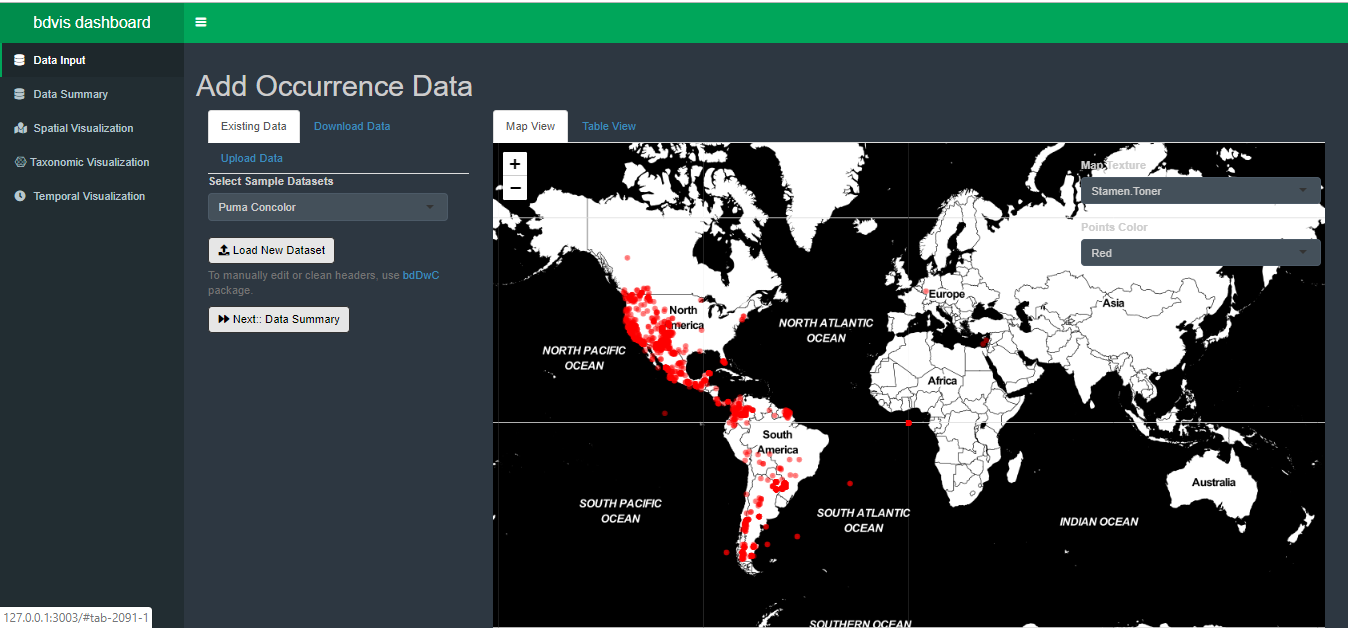
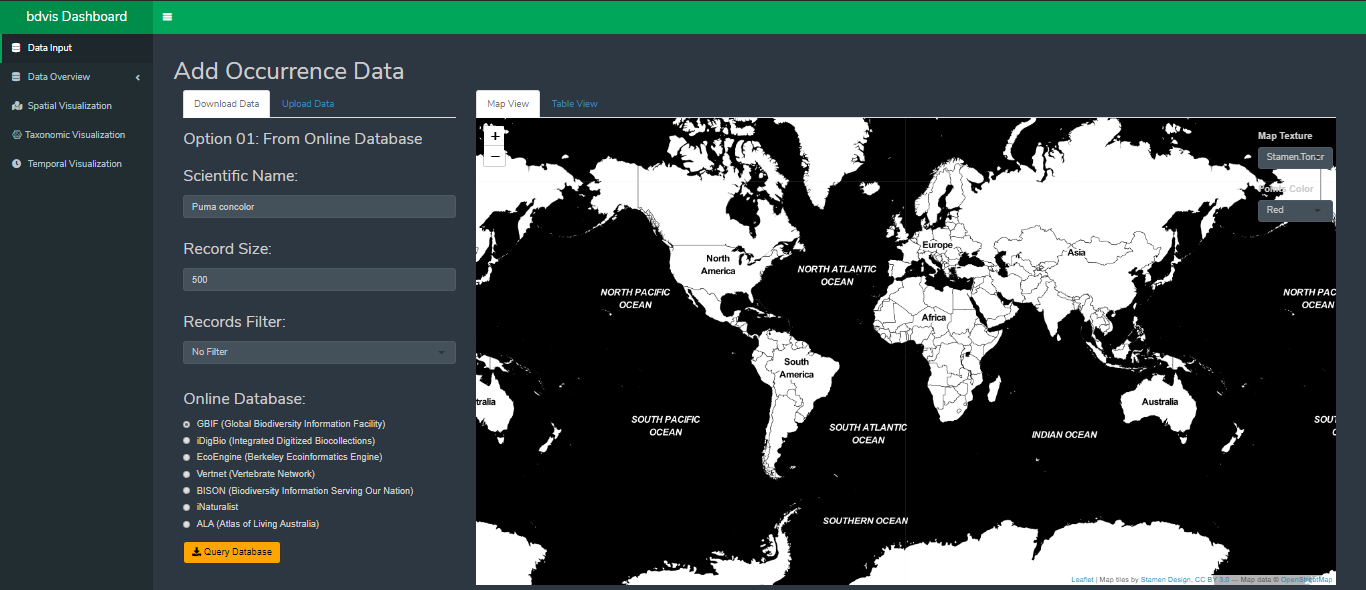
edit readme.md

diff --git a/README.md b/README.md
@@ -45,22 +45,21 @@ dashboard.demo::run_app()
 
 ### DataInput Tab
 
-DataInput tab is dedicated for dataset selection. User can continue with
-existing datasets or he can download a new dataset by clicking on
-“Download Data” tab on dashboard. User can also upload their own
-dataset.
+DataInput tab is dedicated for dataset selection. Fill required fields and click on query Database to download records. User can also upload their own dataset.
 
 ![DataInput Tab](inst/app/www/img/overview.PNG)
 
 ### DataSummart Tab
 
 DataSummary tab is made to give an overview of your dataset before
-visualization. Missing Data in dataset can create a huge impact on
-plots. Note that more the % of missing value, less you can trust the
-result. This tab helps you to understand that how much you can trust the
-visualizations.
+visualization. User can click on each tab to get summary of related fields.
 
 ![DataSummary](inst/app/www/img/summary.PNG)
+
+### Missing Data Tab
+This tab helps user to get % of missing records. Each tab contains related columns.
+
+![Missing Data](inst/app/www/img/missing.PNG)
 
 ### Spatial Tab
 
@@ -70,23 +69,19 @@ country, click on bar of that country. After that Aaa other plots will
 show data collected from that country only. Note: Double click at black
 area of bar chart to reset all graphs.
 
-![Spatial](inst/app/www/img/spatial.PNG)
+![Spatial](inst/app/www/img/spatial.gif)
 
 ### Taxonomic Tab
 
-Taxonomic Tab is to visualize the taxonomy of data. user can alos click
-on bar chart to filter all other plots accordingly. User can select
-different level of taxonomy from dropdown menu in bar chart.
+Taxonomic Tab is designed to visualize the taxonomy of data. Two bar graphs are used to filter the records. Select column of your choice and then click on records you want to filter data with.
 
-![Taxonomy](inst/app/www/img/taxonomic.PNG)
+![Taxonomy](inst/app/www/img/taxonomic.gif)
 
 ### Temporal Tab
 
-This tab is to visualize time related data. Click on a year in barchart
-to filter data accordingly. User can alos select multiple years by using
-selection box.
+This tab is to visualize time related data. 
 
-![Temporal](inst/app/www/img/temporal.PNG)
+![Temporal](inst/app/www/img/temporal.gif)
 
 
 ## We need your feedback :innocent:
